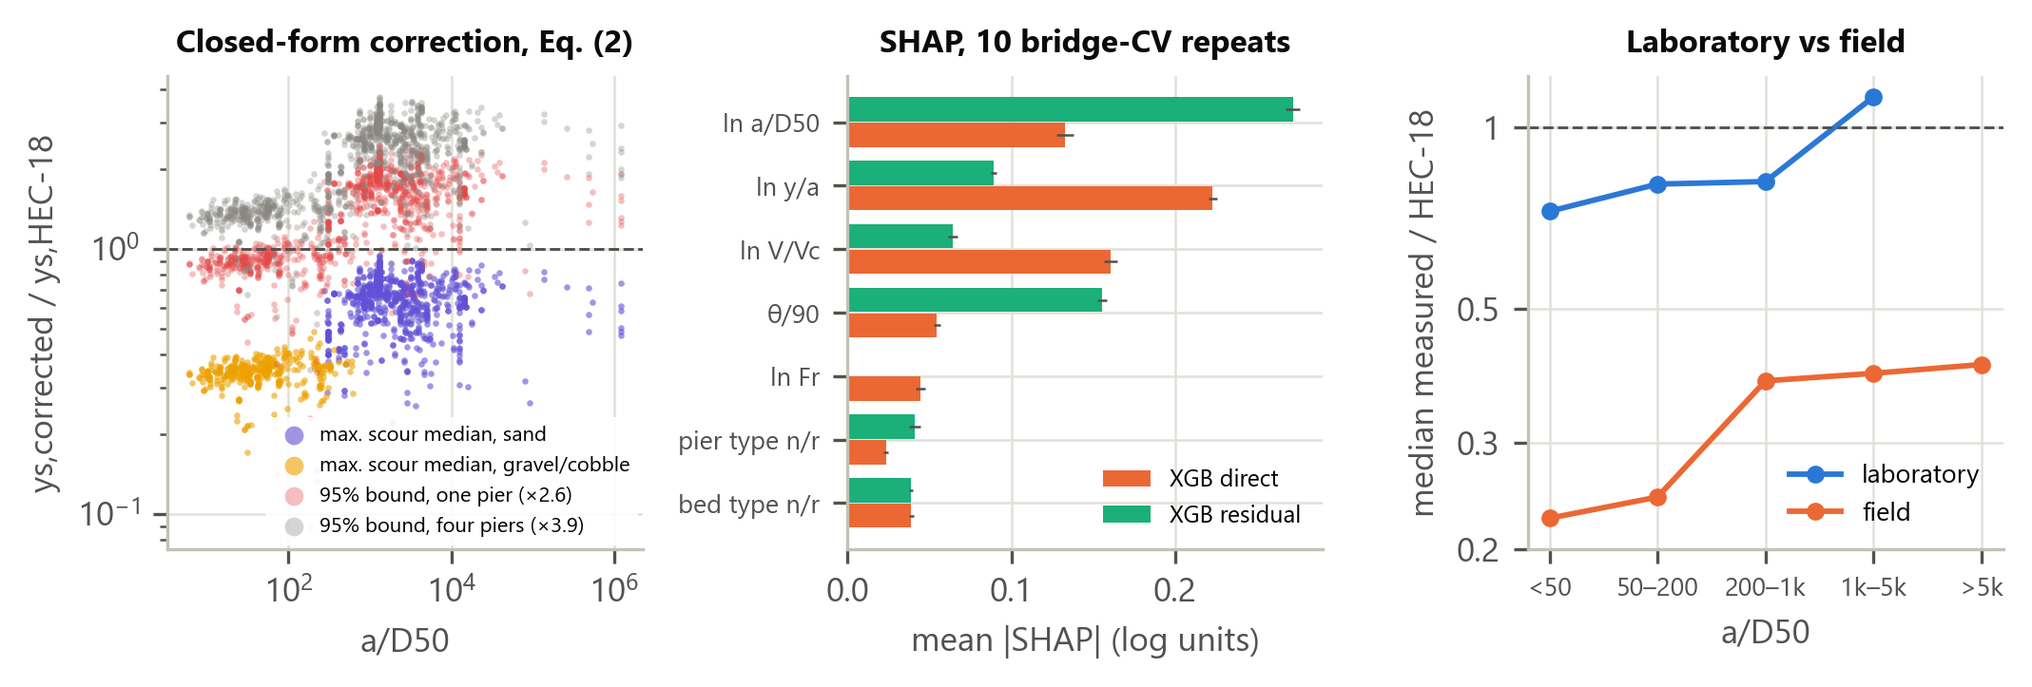
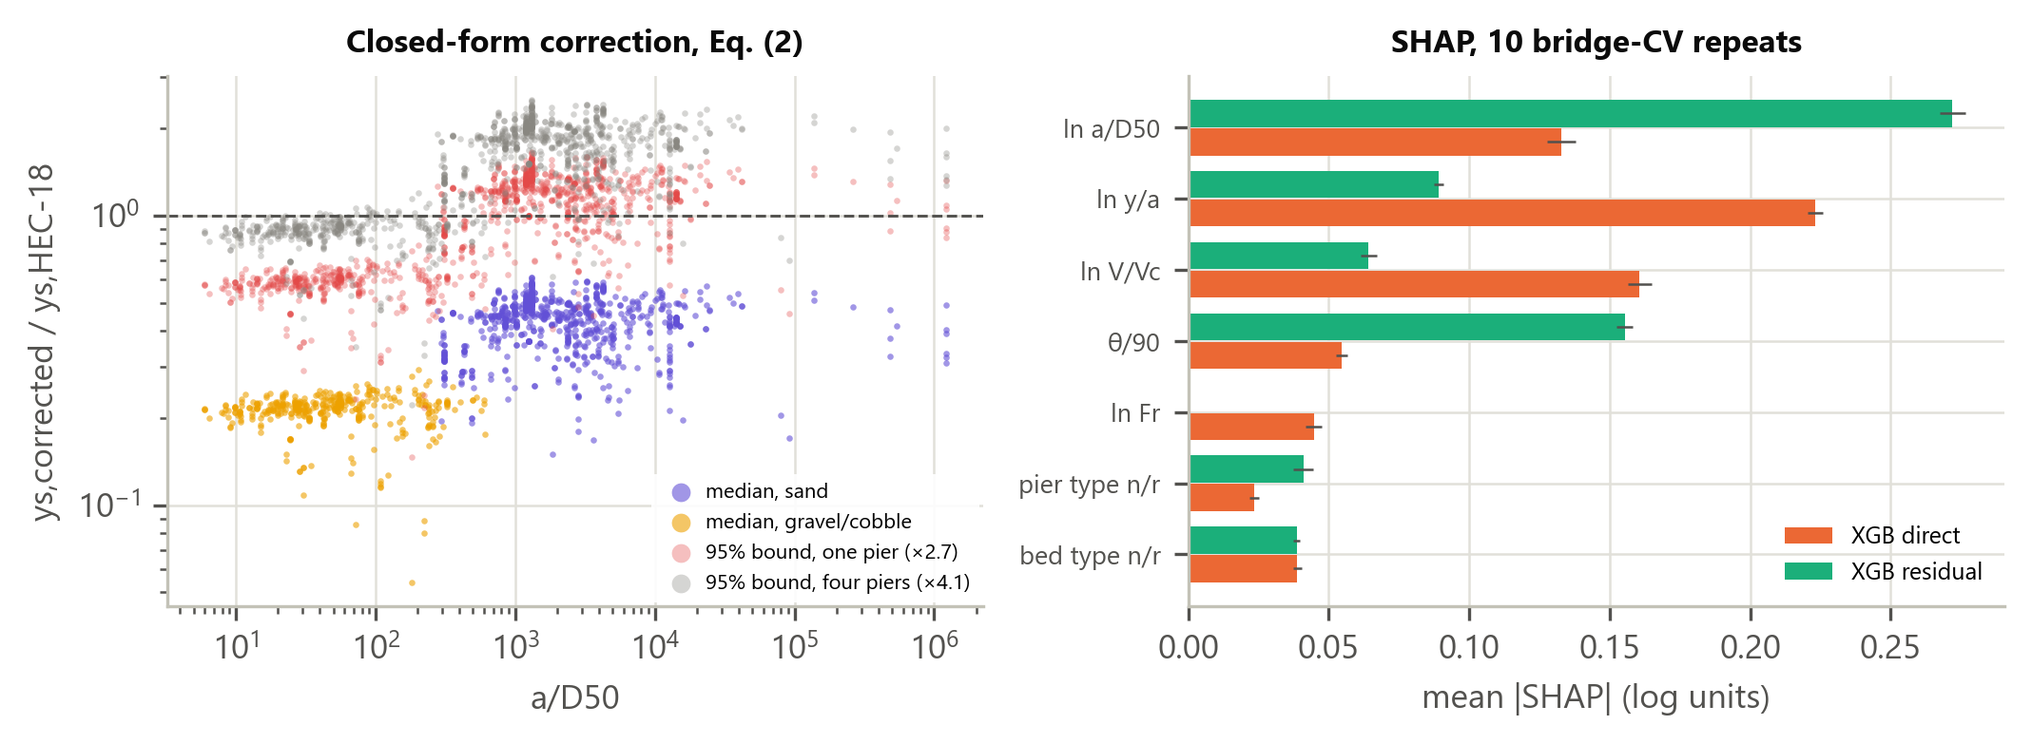
Revision 3: Eq. 2 = bed-class form; refill factor (Eq. 3) with Mondrian GPR multiplier; Fig. 6 two panels; supplement S7-S8 updated

diff --git a/BaiA/revision3_analyses.py b/BaiA/revision3_analyses.py
@@ -1,0 +1,118 @@
+"""Phân tích sửa lần 3 cho JHE (28/11/2026).
+
+Eq. 2 = dạng theo loại đáy (G, θ, ln Fr), mức trung vị như thường đo (sounding).
+Eq. 3 = bước lấp hố riêng: y_max = F · y_s,c, F từ biến chỉ báo GPR (1,61; KTC 1,39–1,87), chỉ cho đáy cát.
+Hệ số nhân cho xói cực đại: hiệu chuẩn Mondrian riêng trên các bản ghi GPR (phần dư so với F · Eq. 2),
+kiểm tra bằng CV theo cầu trong nhóm GPR. Hệ số nhân cho k trụ (dạng Eq. 2).
+
+Chạy:  python BaiA/revision3_analyses.py
+Ghi:   BaiA/outputs/rev3_*.csv
+"""
+import sys
+from pathlib import Path
+
+import numpy as np
+import pandas as pd
+
+HERE = Path(__file__).resolve().parent
+sys.path.insert(0, str(HERE))
+import week3_xgboost as w3  # noqa: E402
+from week4_conformal_extrap import q_weighted  # noqa: E402
+
+sys.stdout.reconfigure(encoding="utf-8"); pd.set_option("display.width", 220)
+OUT = HERE / "outputs"
+d = w3.load(); d["Fr"] = d["V_ms"] / np.sqrt(9.81 * d["y_m"]); d["x_log_Fr"] = np.log(d["Fr"])
+d = d[d["bed"] != "cohesive"].reset_index(drop=True); n = len(d)
+d["b_gravel"] = (d["D50_mm"] >= 2).astype(float); d["m_gpr"] = (d["meas_method"] == "Ground penetrating radar").astype(float)
+g = d["site_group"].to_numpy(); ys = d["ys_m"].to_numpy(); ly = np.log(ys); y = d["lr"].to_numpy()
+lhec = np.log(d["M0_hec18_kw"].to_numpy()); sand = (d["D50_mm"] < 2).to_numpy(); gpr = d["m_gpr"].to_numpy() == 1
+COLS = ["b_gravel", "x_theta", "x_log_Fr"]; X = d[COLS].to_numpy(float)
+rng0 = np.random.default_rng(5)
+
+
+def ols(A, b):
+    M = np.column_stack([np.ones(len(A)), A]); c, *_ = np.linalg.lstsq(M, b, rcond=None); return c
+
+
+def pred(c, A):
+    return np.column_stack([np.ones(len(A)), A]) @ c
+
+
+# out-of-fold dự báo log của Eq. 2 (CV theo cầu, 10 lần lặp) và hệ số lấp hố trong cùng phần huấn luyện
+oof = np.zeros((10, n)); Foof = np.zeros((10, n))
+XG = d[COLS + ["m_gpr"]].to_numpy(float)
+for r in range(10):
+    f = w3.folds(n, g, 5, 1000 + r, "group")
+    for i in range(5):
+        tr, te = f != i, f == i
+        oof[r, te] = lhec[te] + pred(ols(X[tr], y[tr]), X[te])
+        Foof[r, te] = ols(XG[tr], y[tr])[-1]                      # hệ số GPR học trên phần huấn luyện
+P = oof.mean(0); lF = Foof.mean(0)
+res = ly - P                                                       # so với mức như thường đo
+c_all = ols(X, y); cG = ols(XG, y)
+F = np.exp(cG[-1])
+# KTC bootstrap theo cầu cho F
+ug = np.unique(g); idx = {u: np.where(g == u)[0] for u in ug}; Fs = []
+for _ in range(2000):
+    ii = np.concatenate([idx[u] for u in rng0.choice(ug, len(ug))]); Fs.append(np.exp(ols(XG[ii], y[ii])[-1]))
+F_lo, F_hi = np.quantile(Fs, [0.025, 0.975])
+print(f"Eq. 2 coefficients (const, G, θ/90, ln Fr): {np.round(c_all, 3)}; refill factor F = {F:.2f} [{F_lo:.2f}, {F_hi:.2f}]")
+
+# hệ số nhân thường (mức như thường đo): phân vị 95 có trọng số theo cầu của phần dư ngoài-phần
+k1_meas = np.exp(q_weighted(res, g, 0.05))
+# Mondrian cho xói cực đại: phần dư của các bản ghi GPR so với F · Eq. 2
+rg = (res - lF)[gpr]; gg = g[gpr]
+k1_max = np.exp(q_weighted(rg, gg, 0.05))
+# kiểm tra ngoài-mẫu: CV theo cầu trong nhóm GPR (hiệu chuẩn trên các cầu GPR khác)
+ugg = np.unique(gg); exc = []
+for r in range(50):
+    perm = rng0.permutation(ugg); fold = {u: j % 5 for j, u in enumerate(perm)}; ff = np.array([fold[u] for u in gg])
+    for i in range(5):
+        q = q_weighted(rg[ff != i], gg[ff != i], 0.05); exc.append(np.mean(rg[ff == i] > q))
+cv_exc = 100 * np.mean(exc)
+print(f"single-pier multiplier: as measured {k1_meas:.2f}; maximum scour (Mondrian, GPR) {k1_max:.2f}; "
+      f"out-of-bridge exceedance within GPR {cv_exc:.1f}%")
+
+# so sánh với HEC-18 cho đáy cát, mức xói cực đại
+fac_meas = np.exp(pred(c_all, X)); fac_max = fac_meas * F
+rows = []
+for lab, msk in [("sand, all records", sand), ("sand, GPR sites", sand & gpr)]:
+    b1 = fac_max[msk] * k1_max
+    rows.append({"group": lab, "n": int(msk.sum()), "median_factor_max": np.median(fac_max[msk]),
+                 "bound1_over_HEC_median": np.median(b1), "p05": np.quantile(b1, 0.05), "p95": np.quantile(b1, 0.95),
+                 "share_bound_above_HEC_%": 100 * np.mean(b1 > 1)})
+ratio = ys / np.exp(lhec)
+m = sand & gpr
+rows.append({"group": "measured GPR sand: q95 of measured/HEC", "n": int(m.sum()), "bound1_over_HEC_median": np.quantile(ratio[m], 0.95),
+             "share_bound_above_HEC_%": 100 * np.mean(ratio[m] > 1)})
+# xói cực đại đo được (GPR, cát) vượt cận một trụ (trong mẫu)
+b_rec = np.exp(P + lF) * k1_max
+rows.append({"group": "GPR sand records above max-scour single-pier bound (in-sample, %)", "n": int(m.sum()),
+             "share_bound_above_HEC_%": 100 * np.mean(ys[m] > b_rec[m])})
+cmp = pd.DataFrame(rows); cmp.to_csv(OUT / "rev3_maxscour_bounds.csv", index=False); print(cmp.round(3).to_string(index=False))
+
+# hệ số nhân theo k (dạng Eq. 2, mức như thường đo): thực nghiệm + bán tham số
+pg = d["pier_group"].to_numpy(); piers = pd.DataFrame({"g": g, "p": pg, "r": res})
+by_b = {b: grp.groupby("p")["r"].apply(np.array).tolist() for b, grp in piers.groupby("g")}
+pm = piers.groupby(["g", "p"])["r"].mean().reset_index(); bm = pm.groupby("g")["r"].agg(["mean", "count"])
+w_ = pm.merge(bm, left_on="g", right_index=True); s2w = np.sum((w_["r"] - w_["mean"]) ** 2) / (len(w_) - len(bm))
+s2b = max(0.0, bm["mean"].var() - s2w / bm["count"].mean()); mu = pm["r"].mean()
+multi = w_["count"] >= 2; dev = (w_["r"] - w_["mean"])[multi].to_numpy(); nb = w_.loc[multi, "count"].to_numpy(); dev *= np.sqrt(nb / (nb - 1))
+shrink = np.sqrt(s2b / bm["mean"].var()); ub = mu + shrink * (bm["mean"].to_numpy() - mu)
+kt = []
+for k in [1, 2, 3, 4, 5, 6, 8, 10]:
+    el = [b for b, v in by_b.items() if len(v) >= k]; mx = []
+    if len(el) >= 15:
+        for _ in range(200):
+            for b in el:
+                v = by_b[b]; sel = rng0.choice(len(v), k, replace=False); mx.append(max(rng0.choice(v[s]) for s in sel))
+        emp = np.exp(np.quantile(mx, 0.95))
+    else:
+        emp = np.nan
+    U = rng0.choice(ub, 200000)[:, None]; E = rng0.choice(dev, (200000, k))
+    kt.append({"k": k, "bridges": len(el), "empirical": emp, "semiparametric": np.exp(np.quantile((U + E).max(1), 0.95)),
+               "fit_2.6k^0.3": 2.6 * k ** 0.3, "max_scour_k1max_k^0.3": k1_max * k ** 0.3})
+kt = pd.DataFrame(kt); kt.to_csv(OUT / "rev3_k_multipliers.csv", index=False)
+print(f"ICC {s2b / (s2b + s2w):.2f}"); print(kt.round(2).to_string(index=False))
+pd.DataFrame([{"F": F, "F_lo": F_lo, "F_hi": F_hi, "k1_meas": k1_meas, "k1_max": k1_max, "cv_exc_gpr_%": cv_exc,
+               "const": c_all[0], "G": c_all[1], "theta90": c_all[2], "lnFr": c_all[3]}]).to_csv(OUT / "rev3_summary.csv", index=False)

diff --git a/BaiA/make_supplement.py b/BaiA/make_supplement.py
@@ -244,19 +244,18 @@ S7_S8 = f"""
 
 The Ngoi Thia Bridge (five spans, 176.5 m, opened in 1989) crosses a gravel‑bed mountain river in northern Vietnam on shallow foundations. During the flood of 5–11 October 2017 (modelled peak discharge 860 m³/s, water level +264.06 m), Pier T4 settled and tilted and two spans collapsed (Fig. S1). The official investigation (MOT 2017) attributed the failure to the extreme flood, to morphological change that shifted the thalweg toward Pier T4, and to a large bamboo cluster trapped against the pier. After the flood, the bed at the pier was 2.63 m below its pre‑flood level and 0.63 m below the base of the 2‑m‑deep footing.
 
-Inputs: equivalent pier width a = 1.4 m (shaft 1.3 m wide in its upper part and 1.6 m in its lower part), L = 6 m, round nose, y = 8.54 m, D50 = 17 mm. The approach velocity at the pier, 1.3 m/s, was obtained by distributing the discharge over the pre‑flood cross section (digitized from the as‑built drawing) with Manning's equation. Because deposits narrowed the section during the event, the velocity of the design flow at a similar stage (2.6 m/s) is used as an upper case. θ = 15° represents the shift of the thalweg toward the pier. The bridge has four main‑channel piers, so the bridge‑level multiplier is 2.6 × 4^0.3 ≈ 3.95 (main text, Table 3).
+Inputs: equivalent pier width a = 1.4 m (shaft 1.3 m wide in its upper part and 1.6 m in its lower part), L = 6 m, round nose, y = 8.54 m, D50 = 17 mm. The approach velocity at the pier, 1.3 m/s, was obtained by distributing the discharge over the pre‑flood cross section (digitized from the as‑built drawing) with Manning's equation. Because deposits narrowed the section during the event, the velocity of the design flow at a similar stage (2.6 m/s) is used as an upper case. θ = 15° represents the shift of the thalweg toward the pier. The bridge has four main‑channel piers, so the bridge‑level multiplier is 2.7 × 4^0.3 ≈ 4.1 (main text, Table 3).
 
-**Table S7.** Estimated scour depth (m) at Pier T4, October 2017 flood (measured after the flood: at least 2.63 m; footing depth 2.0 m), using Eq. (2) with G = 1 (gravel). The refill factor 1.61 (M = 1) is identified for sand beds only and is applied here provisionally.
+**Table S7.** Estimated scour depth (m) at Pier T4, October 2017 flood (measured after the flood: at least 2.63 m; footing depth 2.0 m), using Eq. (2) with G = 1 (gravel). The refill factor of Eq. (3) is not determined for gravel beds, so the bounds below are for scour as measured.
 
 | Estimate | V = 1.3 m/s, θ = 0° | V = 1.3 m/s, θ = 15° | V = 2.6 m/s, θ = 0° | V = 2.6 m/s, θ = 15° |
 |---|---|---|---|---|
 | HEC‑18 | 2.51 | 4.03 | 3.36 | 5.43 |
-| Corrected median, scour as sounded (M = 0) | 0.67 | 0.82 | 0.78 | 0.97 |
-| Corrected median, maximum scour (M = 1) | 1.07 | 1.32 | 1.26 | 1.56 |
-| 95% bound, maximum scour, single pier (× 2.6) | 2.78 | 3.42 | 3.28 | 4.05 |
-| 95% bound, maximum scour, four piers (× 3.95) | 4.22 | 5.19 | 4.97 | 6.14 |
+| Corrected median, Eq. (2) | 0.66 | 0.81 | 0.79 | 0.97 |
+| 95% bound, single pier (× 2.7) | 1.77 | 2.17 | 2.13 | 2.62 |
+| 95% bound, four piers (× 2.7 · 4^0.3 = 4.1) | 2.69 | 3.30 | 3.22 | 3.97 |
 
-The corrected median for scour as sounded is well below the footing depth and the measured scour (which is itself a lower bound, because the hole refills after a flood). The single‑pier bound for maximum scour is not exceeded in any scenario, and HEC‑18 is exceeded only in the aligned, low‑velocity scenario. The pier was outside the scope of Eq. (2) because of the debris and the migrating thalweg.
+The corrected median is well below the footing depth and the measured scour (itself a lower bound, because the hole refills after a flood), and the measured scour reaches or exceeds the single‑pier bound for scour as measured in all four scenarios. The four‑pier bound is not exceeded, and HEC‑18 is exceeded only in the aligned, low‑velocity scenario. This is consistent with the main text: in gravel beds, where the refill effect is not determined, HEC‑18 should be retained for maximum scour. The pier was in any case outside the scope of Eq. (2) because of the debris and the migrating thalweg.
 
 ![Fig. S1](figures_en/Fig7_ngoithia_case.png)
 
@@ -337,6 +336,24 @@ Script: `BaiA/revision2_analyses.py`. E2 = continuous form (ln a/D50, θ, ln Fr)
 Direct check on the measurements: the 95th percentile of measured/HEC‑18 is 1.42 for GPR records in sand (12.4% above HEC‑18), 1.03 for soundings in sand (6.2%) and 0.54 for soundings in gravel and cobble (0.4%).
 """
 text += S8B
+
+r3 = pd.read_csv(OUT / "rev3_summary.csv").iloc[0]
+S8C = f"""
+### S8, third revision: refill factor and multiplier for maximum scour
+
+Script: `BaiA/revision3_analyses.py`. Eq. (2) is the bed‑class form without a measurement term (scour as measured). The refill factor of Eq. (3) is the coefficient of a GPR indicator added to Eq. (2): F = {r3.F:.2f} (bridge‑bootstrap 95% CI {r3.F_lo:.2f}–{r3.F_hi:.2f}). Single‑pier multiplier for scour as measured: {r3.k1_meas:.2f}. Multiplier for maximum scour, calibrated on GPR records only (Mondrian by measurement method): {r3.k1_max:.2f}; out‑of‑bridge exceedance within the GPR records (50 × 5‑fold, grouped by bridge): {r3["cv_exc_gpr_%"]:.1f}%.
+
+**Table S25.** Maximum‑scour bound relative to HEC‑18 for sand beds, and direct checks on the GPR measurements.
+
+{md(pd.read_csv(OUT / "rev3_maxscour_bounds.csv").round(3))}
+
+**Table S26.** Multipliers for k piers for Eq. (2) (empirical, semi‑parametric, 2.7·k^0.3 and 2.2·k^0.3 for maximum scour).
+
+{md(pd.read_csv(OUT / "rev3_k_multipliers.csv").round(3))}
+
+Bridge‑level factor on HEC‑18 for maximum scour at the GPR‑surveyed sand sites (95th percentile of the maximum measured/HEC‑18 ratio over k piers): 1.34 (k = 1, 46 bridges), 1.60 (k = 2, 36), 1.60 (k = 3, 23) and 1.89 (k = 4, 12).
+"""
+text += S8C
 
 
 # ---------------------------------------------------------------- ASCE: supplemental tables numbered S1, S2, ... (no 1a/1b parts)

diff --git a/BaiA/make_figures_en.py b/BaiA/make_figures_en.py
@@ -45,7 +45,10 @@ plt.rcParams["pdf.fonttype"] = 42          # TrueType fonts embedded in PDF (ASC
 def save(fig, name):
     fig.savefig(FIG / name, dpi=300, bbox_inches="tight")
     # vector PDF for submission: Fig1.pdf ... Fig6.pdf (ASCE accepts TIFF, EPS or PDF with embedded fonts)
-    fig.savefig(SUB / (name.split("_")[0] + ".pdf"), bbox_inches="tight")
+    # manuscript numbering after removing the workflow figure: Fig2..Fig6 (files) -> Fig. 1..5 (paper)
+    num = {"Fig2": "Fig1", "Fig3": "Fig2", "Fig4": "Fig3", "Fig5": "Fig4", "Fig6": "Fig5"}.get(name.split("_")[0])
+    if num:
+        fig.savefig(SUB / (num + ".pdf"), bbox_inches="tight")
     plt.close(fig); print("wrote", FIG / name)
 
 
@@ -181,22 +184,21 @@ fig.tight_layout(); save(fig, "Fig5_extrapolation.png")
 
 # ------------------------------------------------------------------ Fig 6 formula, SHAP, lab vs field
 # Eq. 2 (refined closed form, cohesionless and unreported beds): coefficients from revision_analyses.py
-rc = pd.read_csv(OUT / "rev2_coefficients.csv"); rc = rc[rc["variant"].str.startswith("E3g")].set_index("term")["coef"]
-k1 = 2.6
+rc = pd.read_csv(OUT / "rev2_coefficients.csv"); rc = rc[rc["variant"].str.startswith("E3:")].set_index("term")["coef"]
+k1 = 2.7
 m = (ev["bed"] != "cohesive").to_numpy()
 aD = raw["a/D50"][m]; Fr6 = raw["Fr"][m]; th6 = ev["theta0"][m].fillna(0)
 G6 = (ev["D50_mm"][m] >= 2).astype(float)
-corr0 = np.exp(rc["const"] + rc["b_gravel"] * G6 + rc["x_log_Fr"] * np.log(Fr6) + rc["x_theta"] * th6 / 90)  # as sounded
-corr = corr0 * np.exp(rc["m_gpr"])                                                                              # maximum scour
+corr = np.exp(rc["const"] + rc["b_gravel"] * G6 + rc["x_log_Fr"] * np.log(Fr6) + rc["x_theta"] * th6 / 90)  # Eq. 2, as measured
 sand = (ev["D50_mm"][m] < 2).to_numpy()
 shap = pd.read_csv(OUT / "week5_shap_importance.csv"); gb = pd.read_csv(OUT / "week5_lab_field_by_aD.csv")
-fig, axes = plt.subplots(1, 3, figsize=(7.2, 2.5))
+fig, axes = plt.subplots(1, 2, figsize=(7.2, 2.7))
 ax = axes[0]
 # colours distinct from the model colours used in panel (b) and the lab/field colours in panel (c)
-for sel, lab, col in [(sand, "max. scour median, sand", SLOTS[6]), (~sand, "max. scour median, gravel/cobble", SLOTS[3])]:
+for sel, lab, col in [(sand, "median, sand", SLOTS[6]), (~sand, "median, gravel/cobble", SLOTS[3])]:
     ax.scatter(aD[sel], corr[sel], s=2.5, lw=0, alpha=0.6, color=col, label=lab)
 ax.scatter(aD, corr * k1, s=2.5, lw=0, alpha=0.35, color=SLOTS[7], label=f"95% bound, one pier (×{k1:.1f})")
-ax.scatter(aD, corr * 2.6 * 4 ** 0.3, s=2.5, lw=0, alpha=0.35, color=MUTED, label="95% bound, four piers (×3.9)")
+ax.scatter(aD, corr * 2.7 * 4 ** 0.3, s=2.5, lw=0, alpha=0.35, color=MUTED, label="95% bound, four piers (×4.1)")
 ax.axhline(1, color=INK2, lw=0.7, ls="--"); ax.set_xscale("log"); ax.set_yscale("log")
 ax.set_xlabel("a/D50"); ax.set_ylabel("ys,corrected / ys,HEC-18")
 ax.legend(fontsize=5.3, loc="lower right", markerscale=3, handletextpad=0.2, borderaxespad=0.2,
@@ -213,13 +215,4 @@ for j, m in enumerate(["M4", "M5"]):
             color=MODEL_COLOR[m], label=MODEL_LABEL[m], error_kw=dict(ecolor=INK2, elinewidth=0.6), zorder=2)
 ax.set_yticks(range(len(order_f))); ax.set_yticklabels([fe.get(f, f) for f in order_f], fontsize=6.5)
 ax.set_xlabel("mean |SHAP| (log units)"); ax.legend(fontsize=6, loc="lower right"); ax.set_title("SHAP, 10 bridge-CV repeats", fontsize=8)
-ax = axes[2]
-labs = ["<50", "50–200", "200–1k", "1k–5k", ">5k"]
-for j, (nm, en) in enumerate([("thí nghiệm", "laboratory"), ("hiện trường", "field")]):
-    s = gb[gb["data"] == nm]
-    ax.plot(range(len(s)), s["median_ratio"], "o-", ms=3.5, lw=1.4, color=SLOTS[j], label=en)
-ax.set_xticks(range(5)); ax.set_xticklabels(labs, fontsize=6.5); ax.set_yscale("log"); ax.minorticks_off()
-ax.set_yticks([0.2, 0.3, 0.5, 1.0]); ax.set_yticklabels(["0.2", "0.3", "0.5", "1"])
-ax.axhline(1, color=INK2, lw=0.7, ls="--"); ax.set_xlabel("a/D50"); ax.set_ylabel("median measured / HEC-18")
-ax.legend(fontsize=6.5); ax.set_title("Laboratory vs field", fontsize=8)
 fig.tight_layout(); save(fig, "Fig6_formula_shap_lab.png")

diff --git a/BaiA/make_supplement_tex.py b/BaiA/make_supplement_tex.py
@@ -107,7 +107,7 @@ Faculty of Civil and Environmental Engineering, University of Transport and Comm
 Corresponding author: Quang Huy Mai (\url{mqhuy@utc.edu.vn})
 \end{center}
 
-All numbers in these materials are generated by the analysis scripts of the study repository. Sections S1--S8, Tables S1--S24 and Fig.~S1 are cited in the main paper.
+All numbers in these materials are generated by the analysis scripts of the study repository. Sections S1--S8, Tables S1--S26 and Fig.~S1 are cited in the main paper.
 
 \tableofcontents
 \clearpage

diff --git a/BaiA/Supplement_BaiA.md b/BaiA/Supplement_BaiA.md
@@ -201,19 +201,18 @@ Sheppard, D. M., H. Demir, and B. W. Melville. 2011. *Scour at wide piers and lo
 
 The Ngoi Thia Bridge (five spans, 176.5 m, opened in 1989) crosses a gravel‑bed mountain river in northern Vietnam on shallow foundations. During the flood of 5–11 October 2017 (modelled peak discharge 860 m³/s, water level +264.06 m), Pier T4 settled and tilted and two spans collapsed (Fig. S1). The official investigation (MOT 2017) attributed the failure to the extreme flood, to morphological change that shifted the thalweg toward Pier T4, and to a large bamboo cluster trapped against the pier. After the flood, the bed at the pier was 2.63 m below its pre‑flood level and 0.63 m below the base of the 2‑m‑deep footing.
 
-Inputs: equivalent pier width a = 1.4 m (shaft 1.3 m wide in its upper part and 1.6 m in its lower part), L = 6 m, round nose, y = 8.54 m, D50 = 17 mm. The approach velocity at the pier, 1.3 m/s, was obtained by distributing the discharge over the pre‑flood cross section (digitized from the as‑built drawing) with Manning's equation. Because deposits narrowed the section during the event, the velocity of the design flow at a similar stage (2.6 m/s) is used as an upper case. θ = 15° represents the shift of the thalweg toward the pier. The bridge has four main‑channel piers, so the bridge‑level multiplier is 2.6 × 4^0.3 ≈ 3.95 (main text, Table 3).
+Inputs: equivalent pier width a = 1.4 m (shaft 1.3 m wide in its upper part and 1.6 m in its lower part), L = 6 m, round nose, y = 8.54 m, D50 = 17 mm. The approach velocity at the pier, 1.3 m/s, was obtained by distributing the discharge over the pre‑flood cross section (digitized from the as‑built drawing) with Manning's equation. Because deposits narrowed the section during the event, the velocity of the design flow at a similar stage (2.6 m/s) is used as an upper case. θ = 15° represents the shift of the thalweg toward the pier. The bridge has four main‑channel piers, so the bridge‑level multiplier is 2.7 × 4^0.3 ≈ 4.1 (main text, Table 3).
 
-**Table S11.** Estimated scour depth (m) at Pier T4, October 2017 flood (measured after the flood: at least 2.63 m; footing depth 2.0 m), using Eq. (2) with G = 1 (gravel). The refill factor 1.61 (M = 1) is identified for sand beds only and is applied here provisionally.
+**Table S11.** Estimated scour depth (m) at Pier T4, October 2017 flood (measured after the flood: at least 2.63 m; footing depth 2.0 m), using Eq. (2) with G = 1 (gravel). The refill factor of Eq. (3) is not determined for gravel beds, so the bounds below are for scour as measured.
 
 | Estimate | V = 1.3 m/s, θ = 0° | V = 1.3 m/s, θ = 15° | V = 2.6 m/s, θ = 0° | V = 2.6 m/s, θ = 15° |
 |---|---|---|---|---|
 | HEC‑18 | 2.51 | 4.03 | 3.36 | 5.43 |
-| Corrected median, scour as sounded (M = 0) | 0.67 | 0.82 | 0.78 | 0.97 |
-| Corrected median, maximum scour (M = 1) | 1.07 | 1.32 | 1.26 | 1.56 |
-| 95% bound, maximum scour, single pier (× 2.6) | 2.78 | 3.42 | 3.28 | 4.05 |
-| 95% bound, maximum scour, four piers (× 3.95) | 4.22 | 5.19 | 4.97 | 6.14 |
+| Corrected median, Eq. (2) | 0.66 | 0.81 | 0.79 | 0.97 |
+| 95% bound, single pier (× 2.7) | 1.77 | 2.17 | 2.13 | 2.62 |
+| 95% bound, four piers (× 2.7 · 4^0.3 = 4.1) | 2.69 | 3.30 | 3.22 | 3.97 |
 
-The corrected median for scour as sounded is well below the footing depth and the measured scour (which is itself a lower bound, because the hole refills after a flood). The single‑pier bound for maximum scour is not exceeded in any scenario, and HEC‑18 is exceeded only in the aligned, low‑velocity scenario. The pier was outside the scope of Eq. (2) because of the debris and the migrating thalweg.
+The corrected median is well below the footing depth and the measured scour (itself a lower bound, because the hole refills after a flood), and the measured scour reaches or exceeds the single‑pier bound for scour as measured in all four scenarios. The four‑pier bound is not exceeded, and HEC‑18 is exceeded only in the aligned, low‑velocity scenario. This is consistent with the main text: in gravel beds, where the refill effect is not determined, HEC‑18 should be retained for maximum scour. The pier was in any case outside the scope of Eq. (2) because of the debris and the migrating thalweg.
 
 ![Fig. S1](figures_en/Fig7_ngoithia_case.png)
 
@@ -434,3 +433,31 @@ Script: `BaiA/revision2_analyses.py`. E2 = continuous form (ln a/D50, θ, ln Fr)
 | GPR level (maximum scour, design) | 4 | gravel/cobble | 0.350 | 2.590 | 0.900 | 0.650 | 1.030 | 10.220 |
 
 Direct check on the measurements: the 95th percentile of measured/HEC‑18 is 1.42 for GPR records in sand (12.4% above HEC‑18), 1.03 for soundings in sand (6.2%) and 0.54 for soundings in gravel and cobble (0.4%).
+
+### S8, third revision: refill factor and multiplier for maximum scour
+
+Script: `BaiA/revision3_analyses.py`. Eq. (2) is the bed‑class form without a measurement term (scour as measured). The refill factor of Eq. (3) is the coefficient of a GPR indicator added to Eq. (2): F = 1.61 (bridge‑bootstrap 95% CI 1.39–1.88). Single‑pier multiplier for scour as measured: 2.68. Multiplier for maximum scour, calibrated on GPR records only (Mondrian by measurement method): 2.18; out‑of‑bridge exceedance within the GPR records (50 × 5‑fold, grouped by bridge): 2.0%.
+
+**Table S25.** Maximum‑scour bound relative to HEC‑18 for sand beds, and direct checks on the GPR measurements.
+
+| group | n | median_factor_max | bound1_over_HEC_median | p05 | p95 | share_bound_above_HEC_% |
+|---|---|---|---|---|---|---|
+| sand, all records | 774 | 0.720 | 1.569 | 0.957 | 1.943 | 93.152 |
+| sand, GPR sites | 137 | 0.712 | 1.551 | 0.933 | 1.903 | 89.781 |
+| measured GPR sand: q95 of measured/HEC | 137 | — | 1.423 | — | — | 12.409 |
+| GPR sand records above max-scour single-pier bound (in-sample, %) | 137 | — | — | — | — | 3.650 |
+
+**Table S26.** Multipliers for k piers for Eq. (2) (empirical, semi‑parametric, 2.7·k^0.3 and 2.2·k^0.3 for maximum scour).
+
+| k | bridges | empirical | semiparametric | fit_2.6k^0.3 | max_scour_k1max_k^0.3 |
+|---|---|---|---|---|---|
+| 1.000 | 347.000 | 2.573 | 2.908 | 2.600 | 2.178 |
+| 2.000 | 137.000 | 2.573 | 3.523 | 3.201 | 2.682 |
+| 3.000 | 63.000 | 3.096 | 3.968 | 3.615 | 3.029 |
+| 4.000 | 39.000 | 3.523 | 4.270 | 3.941 | 3.302 |
+| 5.000 | 19.000 | 3.547 | 4.566 | 4.214 | 3.530 |
+| 6.000 | 10.000 | — | 4.882 | 4.451 | 3.729 |
+| 8.000 | 3.000 | — | 5.318 | 4.852 | 4.065 |
+| 10.000 | 0.000 | — | 5.744 | 5.188 | 4.346 |
+
+Bridge‑level factor on HEC‑18 for maximum scour at the GPR‑surveyed sand sites (95th percentile of the maximum measured/HEC‑18 ratio over k piers): 1.34 (k = 1, 46 bridges), 1.60 (k = 2, 36), 1.60 (k = 3, 23) and 1.89 (k = 4, 12).
